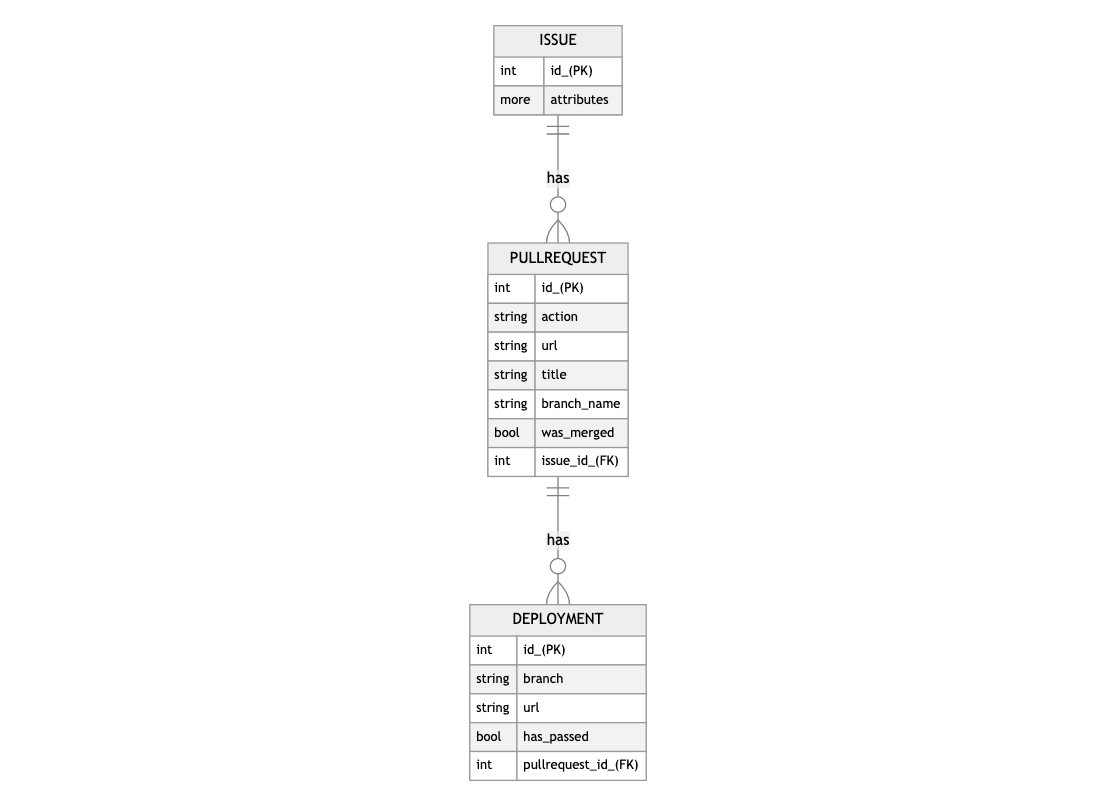
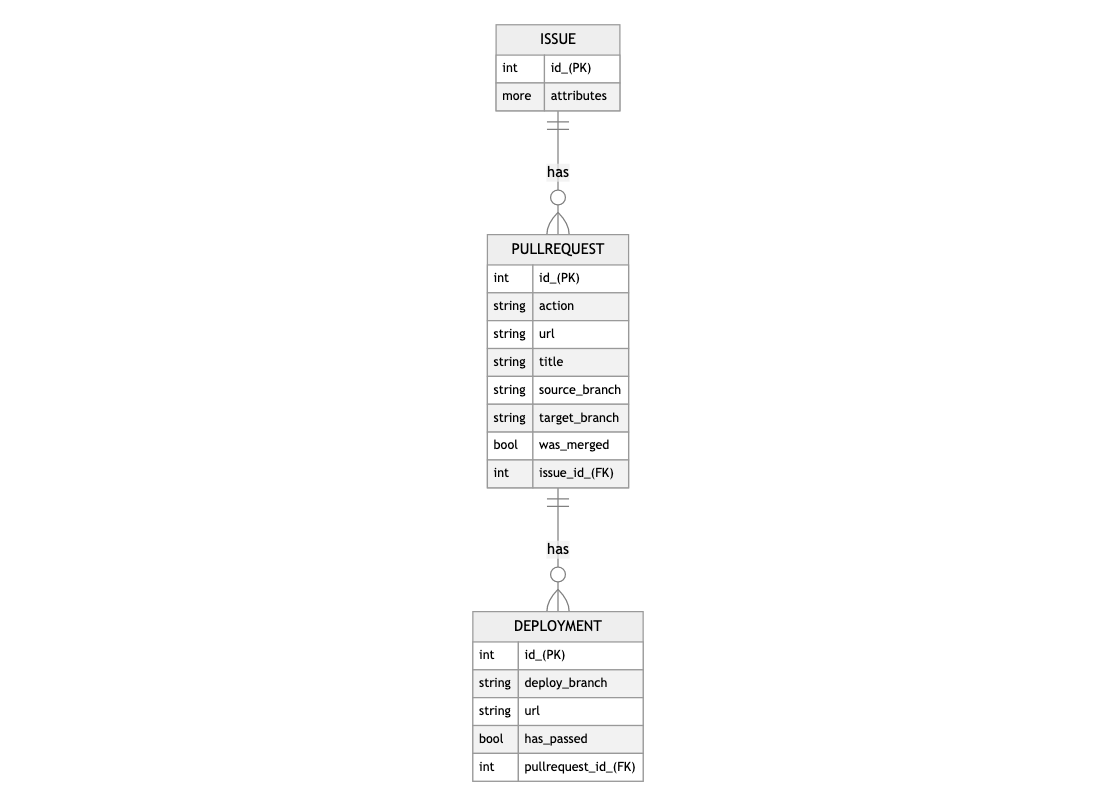
Document implementation of ERDs (#30)

Changed region(s): [[0.4265, 0.031, 0.5789, 0.6203], [0.3961, 0.6514, 0.5789, 0.9926]]

diff --git a/src/chapters/implement.tex b/src/chapters/implement.tex
@@ -6,25 +6,23 @@ In diesem Kapitel geht es um die Implementation der Software. Diese wird nach de
 \subsection{Versionierung}
 Für die Versionierung wird Git verwendet. Dabei wird GitHub als Remote-Repository verwendet. Das Repository mit
 dem Source-Code kann unter \url{https://github.com/aneshodza/gnosis} gefunden werden.
-
 \subsection{IDE}
 Als IDE wird vim mit verschiedenen Plugins verwendet. Bestimmte Sachen wurden in der \bgmintinline{bash}{.vimrc} Datei
 konfiguriert, damit die Arbeit möglichst effizient ist. \newline
 Diese Konfigurationen sind unter \newline
 \url{https://github.com/aneshodza/.dotfiles/blob/ad87ee9ecc5588a59d66e211797792099569ca95/.vimrc} zu finden.
-
 \subsection{CI/CD}
 Für die CI/CD Pipeline wird SemaphoreCI verwendet. Das ist passend, da auch die PA sehr eng mit SemaphoreCI verbunden
 ist.
 
 \begin{minipage}{\textwidth}
   \section{Aufsetzen des Projektes}
-  Zu Beginn wird Arbeitspaket 7, Aufestzen des Projektes, implementiert. Dazu sind folgende Schritte zu befolgen:
+  Zu Beginn wird Arbeitspaket 7, Aufsetzen des Projektes, implementiert. Dazu sind folgende Schritte zu befolgen:
   \begin{enumerate}
     \item Erstellen des Plugins
     \item Erstellen des Remote-Repository
     \item Mit dem README beginnen
-    \item Aufsetzen der CI/CD Pipeline \newline
+    \item Aufsetzen der CI/CD Pipeline
   \end{enumerate}
 \end{minipage}
 
@@ -84,7 +82,7 @@ create  plugins/gnosis/test/test_helper.rb
   Beim Erstellen des Plugins wurde automatisch ein \enquote{README.rdoc} erstellt. Dieses wird bei Ruby Projekten
   oft anstatt eines \enquote{README.md} verwendet. Da diese PA nach Vorgaben von Redmine arbeitet, wird auch das
   README im rdoc Format geschrieben. \newline
-  Da noch nicht viel im Projekt steht, wird nur beschrieben was genau das Plugin kann und wie es funktioniert. \newline
+  Da noch nicht viel im Projekt steht, wird nur beschrieben was genau das Plugin kann und wie es funktioniert.
 \end{minipage}
 
 \subsection{Aufsetzen der CI/CD Pipeline}
@@ -106,8 +104,7 @@ white='\033[1;37m'
 red='\033[0;31m'
 green='\033[0;32m'
 
-rake redmine:plugins:test:functionals
-# TODO: Add other types of tests when they are implemented
+rake redmine:plugins:test
 
 if [[ $? -eq 0 ]]; then
   echo -e "${green}----------------------------------------"
@@ -267,10 +264,11 @@ blocks:
 \end{minipage}
 
 \begin{minipage}{\textwidth}
-  \subsection{SimpleCov}
+  \subsubsection{SimpleCov}
   Um die Test-Coverage zu messen, wird SimpleCov verwendet. SimpleCov ist ein Ruby Gem, welches die Test-Coverage misst und
   dann in einem HTML Report ausgibt. Ausserdem kann man eine minimale Test-Coverage definieren, welche beim Unterschreiten
-  die Tests fehlschlagen lässt. \newline
+  die Tests fehlschlagen lässt. Damit das funktioniert müssen wir SimpleCov einbinden und dann die Dateien, welche wir
+  auf ihre Test-Coverage prüfen wollen laden\newline
   Die Implementation findet im test\_helper.rb statt und sieht wie folgt aus:
   \begin{codebox}[]
     \begin{minted}{ruby}
@@ -281,20 +279,25 @@ require 'simplecov'
 SimpleCov.coverage_dir('plugins/gnosis/coverage')
 SimpleCov.start do
   add_filter do |source_file|
-    source_file.lines.count < 5
+    source_file.lines.count < 7
   end
 
   add_filter do |source_file|
-    source_file.filename.exclude?('gnosis')
+    source_file.filename.exclude?('gnosis/app')
   end
 end
 
 SimpleCov.minimum_coverage 100
 
+Dir[Rails.root.join('plugins/gnosis/app/**/*.rb')].each { |f| load f }
+
 # Load the Redmine helper
 require File.expand_path("#{File.dirname(__FILE__)}/../../../test/test_helper")
     \end{minted}
   \end{codebox}
+  \textbf{Zu beachten:} Auf Zeile acht wird die mindeste Zeilenanzahl der Dateien auf 7 anstatt 5 gesetzt. Das hat den
+  Grund, dass Rails Klassen meistens mit einem \bgmintinline{ruby}{# frozen_string_literal: true} gefolgt von einer
+  leeren Zeile beginnen. Das führt dazu, dass Klassen mit vier Zeilen zu Dateien mit sechs Zeilen führen. \newline
 
   Wenn wir dann unser Plugin testen, gibt SimpleCov folgenden Report aus:
   \begin{codebox}
@@ -303,3 +306,57 @@ Coverage report generated for Minitest to /Users/anes/c/redmine/plugins/gnosis/c
     \end{minted}
   \end{codebox}
 \end{minipage}
+
+\begin{minipage}{\textwidth}
+  \subsubsection{FactoryBot \& Faker}
+  Damit die Tests mit Beispieldaten arbeiten können, wird FactoryBot in Kombination mit Faker verwendet. FactoryBot ist ein
+  Rubygem, welcher das Erstellen von Daten vereinfacht. In diesem Fall wird es aber nur für Testdaten genutzt. Um dann die
+  Attribute zu befüllen wird Faker verwendet. Dieser Rubygem generiert zufällige Daten, wie beispielsweise Namen, Adressen
+  oder Telefonnummern. \newline
+  Damit FactoryBot verwendbar ist, muss man test\_helper.rb anpassen:
+  \begin{codebox}[]
+    \begin{minted}{ruby}
+FactoryBot.definition_file_paths = [File.expand_path('factories', __dir__)]
+FactoryBot.find_definitions
+    \end{minted}
+  \end{codebox}
+\end{minipage}
+
+\begin{minipage}{\textwidth}
+  \section{Umsetzung der Datenstruktur}
+  Da unter Kapitel \ref{sec:decide_erd} die Entscheidung getroffen wurde die \enquote{has many trough} Beziehung zu
+  verwenden, wird diese auch implementiert. Das bedeutet, dass wir zwei Objekte erstellen müssen: 
+  \bgmintinline{ruby}{PullRequest} und \bgmintinline{ruby}{Deployment}. Diese muss man mit dem Redmine CLI generieren,
+  damit die neuen Objekte richtig mit den anderen Objekten von Redmine interagieren können. Für das Generieren unserer
+  Objekte muss man folgende Befehle ausführen:
+  \begin{codebox}[]
+    \begin{minted}{bash}
+rails generate redmine_plugin_model gnosis PullRequest 
+rails generate redmine_plugin_model gnosis Deployment
+rake redmine:plugins:migrate
+    \end{minted}
+  \end{codebox}
+  \textbf{Wichtig:} Die Migrationen wurden noch mit den Attributen aus dem ERD befüllt. \newline
+  Um dann die Associations nach Rails Standard zu machen, müssen wir unsere neuen Objekte wie folgt anpassen:
+  \begin{codebox}[]
+    \begin{minted}{ruby}
+# app/models/pull_request.rb
+class PullRequest < ApplicationRecord
+  belongs_to :issue
+  has_many :deployments, dependent: :destroy
+end
+
+# app/models/deployment.rb
+class Deployment < ApplicationRecord
+  belongs_to :pull_request
+  has_one :issue, through: :pull_request
+end
+
+# app/models/gnosis_application_record.rb
+class GnosisApplicationRecord < ActiveRecord::Base
+  self.abstract_class = true
+end
+    \end{minted}
+  \end{codebox}
+\end{minipage}
+

diff --git a/src/glossaries.tex b/src/glossaries.tex
@@ -11,7 +11,7 @@
 
 \newglossaryentry{Ticket}{
   name={Ticket},
-  description={Ein Ticket (im Kontxt dieser PA) ist eine Aufgabe, welche im Redmine System eingetragen ist. Diese kann
+  description={Ein Ticket (im Kontext dieser PA) ist eine Aufgabe, welche im Redmine System eingetragen ist. Diese kann
   ein Feature-Request, ein Bug oder eine andere Aufgabe sein.}
 }
 

diff --git a/src/chapters/decide.tex b/src/chapters/decide.tex
@@ -72,6 +72,7 @@ Vor- und Nachteile. \newline
 \section{Entscheidungen}
 \begin{minipage}{\textwidth}
     \subsection{Entity-Relationship-Diagram}
+    \label{sec:decide_erd}
     \subsubsection{Bewertungsmatrix}
     \begin{center}
         \resizebox{0.75\textwidth}{!}{%
